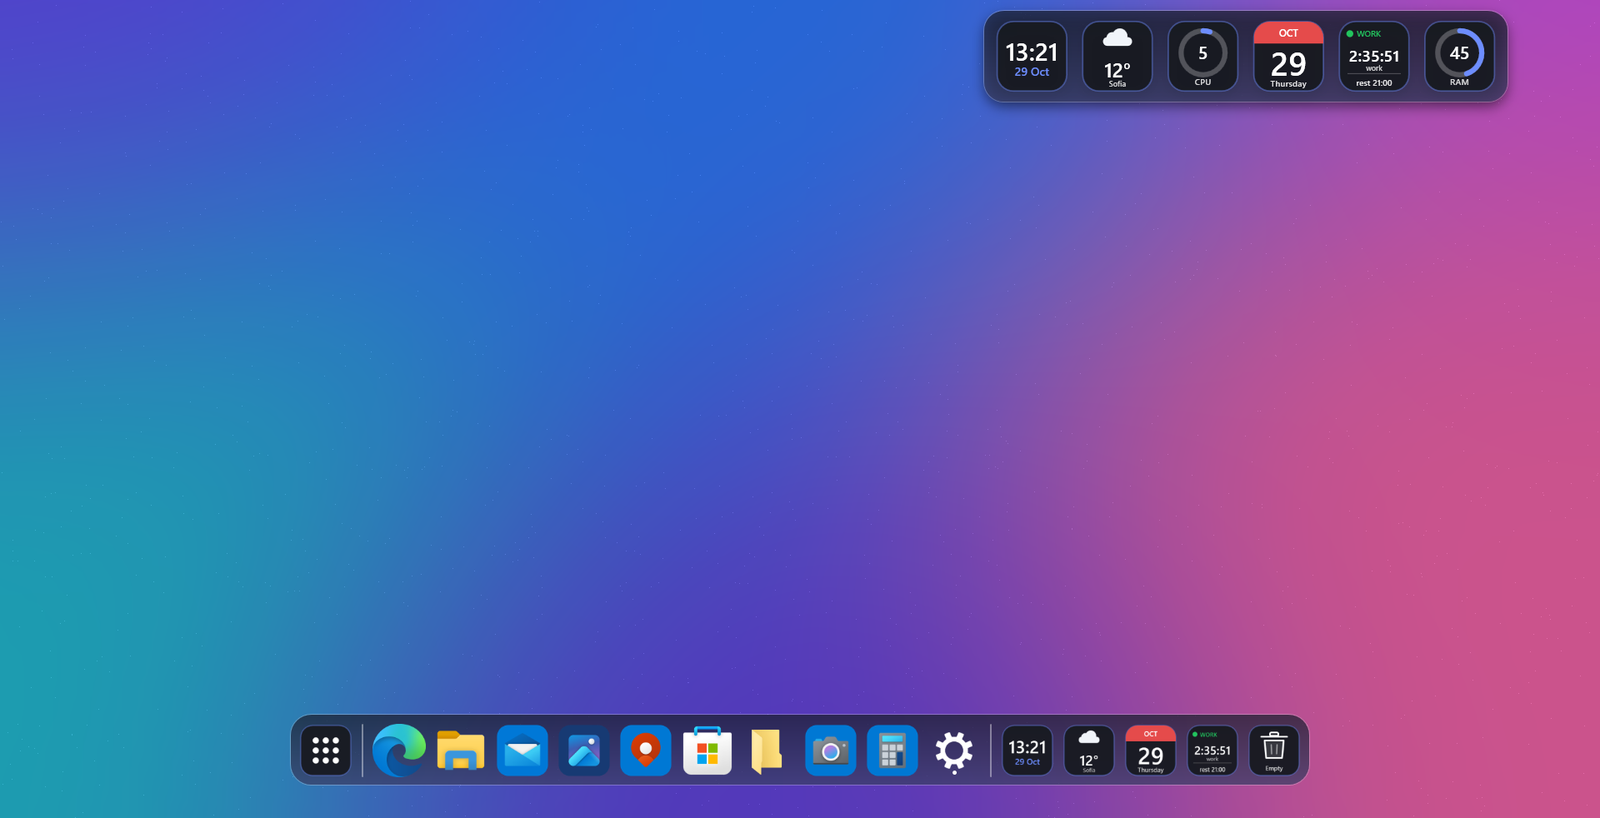
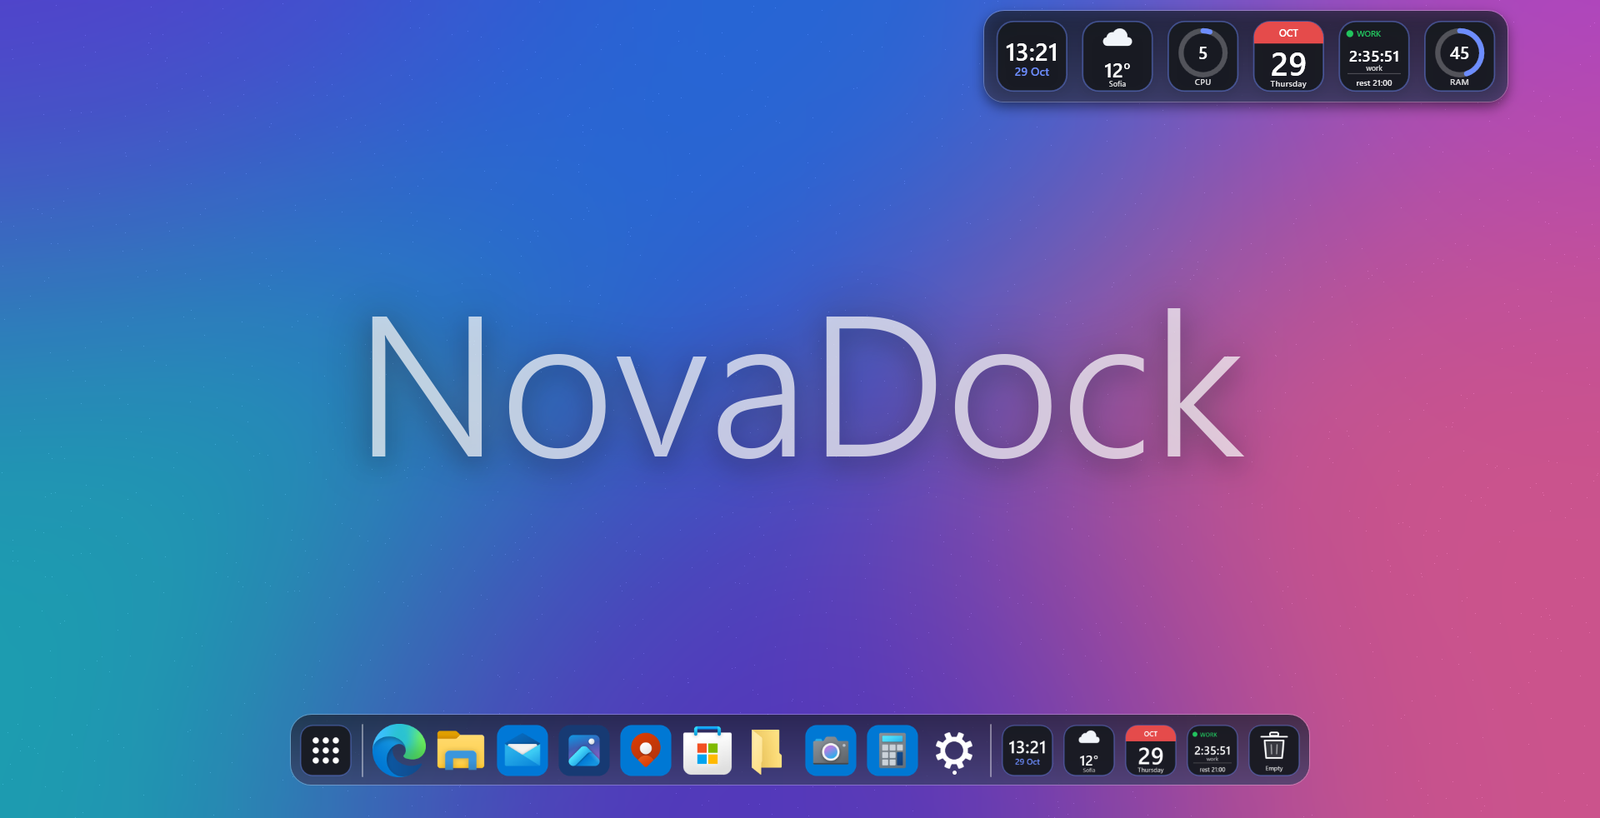
Hero wordmark, animated background glows, cursor glow

Changed region(s): [[0.2188, 0.3667, 0.7812, 0.5807]]

diff --git a/css/style.css b/css/style.css
@@ -26,15 +26,77 @@ body {
   overflow-x: hidden;
 }
 
-body::before {
-  content: "";
+.bg {
   position: fixed;
   inset: 0;
+  z-index: -2;
+  overflow: hidden;
+  pointer-events: none;
+}
+
+.bg i {
+  position: absolute;
+  border-radius: 50%;
+  filter: blur(30px);
+  will-change: transform;
+}
+
+.bg i:nth-child(1) {
+  width: 62vmax; height: 62vmax; left: -18vmax; top: -22vmax;
+  background: radial-gradient(circle at center, rgba(66, 72, 170, 0.5) 0%, rgba(66, 72, 170, 0.22) 38%, transparent 70%);
+  animation: drift1 70s ease-in-out infinite alternate;
+}
+
+.bg i:nth-child(2) {
+  width: 56vmax; height: 56vmax; right: -16vmax; top: 4vmax;
+  background: radial-gradient(circle at center, rgba(112, 62, 160, 0.46) 0%, rgba(112, 62, 160, 0.2) 38%, transparent 70%);
+  animation: drift2 86s ease-in-out infinite alternate;
+}
+
+.bg i:nth-child(3) {
+  width: 60vmax; height: 60vmax; left: 12vmax; bottom: -30vmax;
+  background: radial-gradient(circle at center, rgba(28, 108, 122, 0.42) 0%, rgba(28, 108, 122, 0.18) 38%, transparent 70%);
+  animation: drift3 78s ease-in-out infinite alternate;
+}
+
+.bg i:nth-child(4) {
+  width: 44vmax; height: 44vmax; right: 6vmax; bottom: -14vmax;
+  background: radial-gradient(circle at center, rgba(40, 82, 170, 0.4) 0%, rgba(40, 82, 170, 0.17) 40%, transparent 70%);
+  animation: drift4 94s ease-in-out infinite alternate;
+}
+
+.bg i:nth-child(5) {
+  width: 36vmax; height: 36vmax; left: 38vmax; top: 30vh;
+  background: radial-gradient(circle at center, rgba(94, 52, 130, 0.32) 0%, rgba(94, 52, 130, 0.14) 40%, transparent 70%);
+  animation: drift5 104s ease-in-out infinite alternate;
+}
+
+@keyframes drift1 { from { transform: translate(0, 0) scale(1); } to { transform: translate(18vmax, 14vmax) scale(1.18); } }
+@keyframes drift2 { from { transform: translate(0, 0) scale(1.1); } to { transform: translate(-20vmax, 18vmax) scale(0.92); } }
+@keyframes drift3 { from { transform: translate(0, 0) scale(1); } to { transform: translate(22vmax, -12vmax) scale(1.2); } }
+@keyframes drift4 { from { transform: translate(0, 0) scale(1.12); } to { transform: translate(-16vmax, -18vmax) scale(0.9); } }
+@keyframes drift5 { from { transform: translate(-10vmax, 0) scale(0.95); } to { transform: translate(14vmax, 10vmax) scale(1.2); } }
+
+.cursor-glow {
+  position: fixed;
+  left: 0;
+  top: 0;
+  width: 520px;
+  height: 520px;
+  margin: -260px 0 0 -260px;
   z-index: -1;
-  background:
-    radial-gradient(900px 600px at 12% -5%, rgba(109, 141, 255, 0.22), transparent 60%),
-    radial-gradient(800px 560px at 95% 8%, rgba(176, 124, 255, 0.18), transparent 60%),
-    radial-gradient(900px 700px at 50% 110%, rgba(79, 209, 197, 0.10), transparent 60%);
+  pointer-events: none;
+  border-radius: 50%;
+  background: radial-gradient(circle at center, rgba(130, 150, 255, 0.13) 0%, rgba(150, 110, 255, 0.07) 38%, transparent 70%);
+  opacity: 0;
+  transition: opacity 0.5s ease;
+  will-change: transform;
+}
+
+.cursor-glow.on { opacity: 1; }
+
+@media (hover: none), (pointer: coarse) {
+  .cursor-glow { display: none; }
 }
 
 img { max-width: 100%; display: block; }
@@ -189,5 +251,7 @@ footer { border-top: 1px solid var(--card-border); padding: 34px 0 44px; color: 
 
 @media (prefers-reduced-motion: reduce) {
   html { scroll-behavior: auto; }
+  .bg i { animation: none; }
+  .cursor-glow { display: none; }
   .reveal { opacity: 1; transform: none; transition: none; }
 }

diff --git a/js/site.js b/js/site.js
@@ -62,6 +62,35 @@
     items.forEach(function (el) { el.classList.add("in"); });
   }
 
+  var glow = document.querySelector(".cursor-glow");
+  var reduce = window.matchMedia && window.matchMedia("(prefers-reduced-motion: reduce)").matches;
+  if (glow && !reduce) {
+    var tx = window.innerWidth / 2, ty = window.innerHeight / 3, x = tx, y = ty, running = false;
+
+    function frame() {
+      x += (tx - x) * 0.12;
+      y += (ty - y) * 0.12;
+      glow.style.transform = "translate(" + x.toFixed(1) + "px," + y.toFixed(1) + "px)";
+      if (Math.abs(tx - x) > 0.4 || Math.abs(ty - y) > 0.4) {
+        requestAnimationFrame(frame);
+      } else {
+        running = false;
+      }
+    }
+
+    window.addEventListener("pointermove", function (e) {
+      tx = e.clientX;
+      ty = e.clientY;
+      glow.classList.add("on");
+      if (!running) {
+        running = true;
+        requestAnimationFrame(frame);
+      }
+    }, { passive: true });
+
+    document.addEventListener("mouseleave", function () { glow.classList.remove("on"); });
+  }
+
   var year = document.getElementById("year");
   if (year) year.textContent = new Date().getFullYear();
 })();

diff --git a/index.html b/index.html
@@ -11,6 +11,9 @@
 </head>
 <body>
 
+<div class="bg" aria-hidden="true"><i></i><i></i><i></i><i></i><i></i></div>
+<div class="cursor-glow" aria-hidden="true"></div>
+
 <svg width="0" height="0" style="position:absolute" aria-hidden="true">
   <defs>
     <symbol id="i-palette" viewBox="0 0 24 24"><path d="M12 3a9 9 0 1 0 0 18c1.4 0 2-1 1.6-2.1-.4-1.1.3-2.4 1.6-2.4H17a4 4 0 0 0 4-4c0-5-4-9.5-9-9.5z"/><circle cx="7.5" cy="11" r="1"/><circle cx="10.5" cy="7" r="1"/><circle cx="15.5" cy="7.5" r="1"/></symbol>
